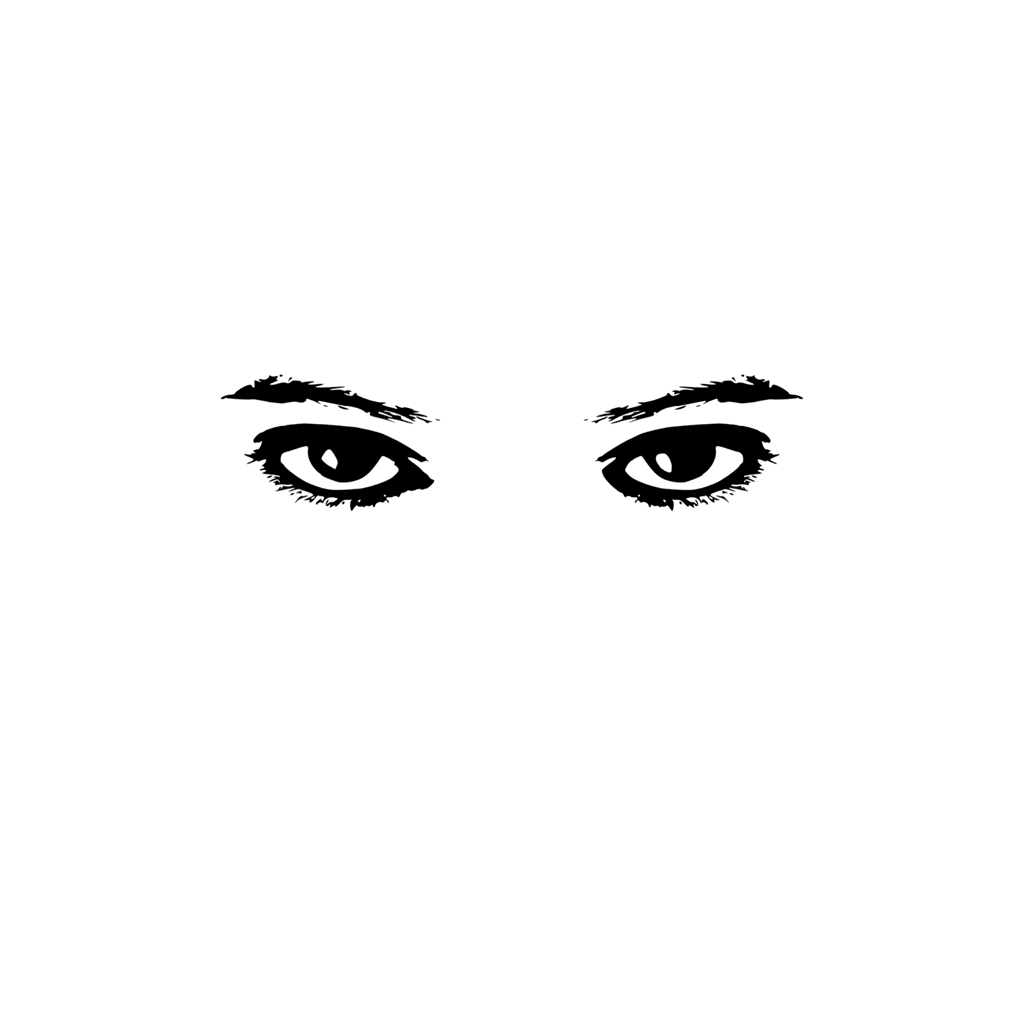
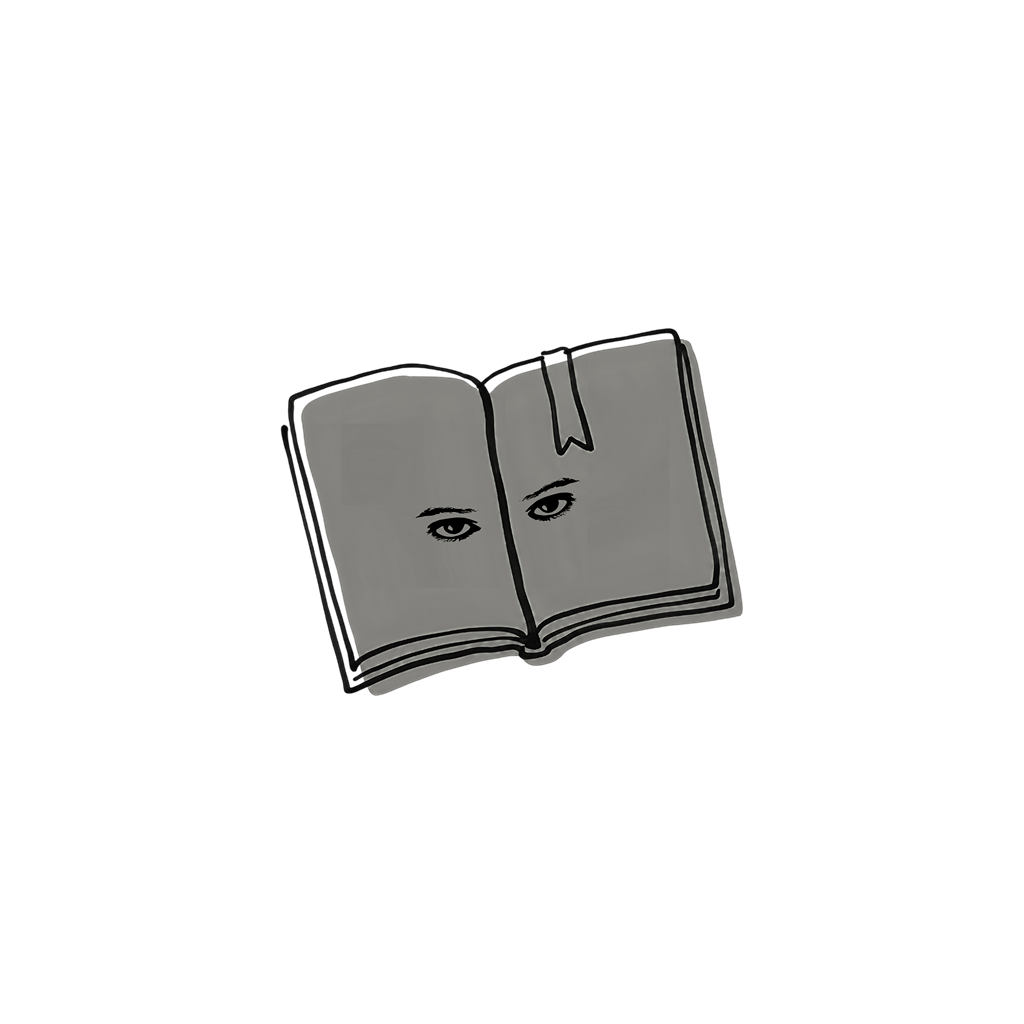
bottom tabs, but glitchy with auth screen

Changed region(s): [[0.2188, 0.3125, 0.7812, 0.6875]]

diff --git a/src/app/_layout.tsx b/src/app/_layout.tsx
@@ -1,5 +1,54 @@
-import { Stack } from "expo-router";
+import { Tabs, usePathname } from 'expo-router';
+import { Home, User } from 'lucide-react-native';
+import { Platform } from 'react-native';
 
 export default function RootLayout() {
-  return <Stack  screenOptions={{ headerShown: false }} />;
+  const pathname = usePathname();
+  const isAuthRoute = pathname === '/login' || pathname === '/register';
+
+  return (
+    <Tabs
+      screenOptions={{
+        headerShown: false,
+        tabBarStyle: isAuthRoute
+          ? { display: 'none' }
+          : {
+              backgroundColor: '#121212',
+              borderTopColor: '#2a2a2a',
+              borderTopWidth: 1,
+              height: Platform.OS === 'android' ? 65 : 85,
+              paddingBottom: Platform.OS === 'android' ? 10 : 25,
+              paddingTop: 8,
+              elevation: 0,
+            },
+        tabBarActiveTintColor: '#f9cf26',
+        tabBarInactiveTintColor: '#555555',
+        tabBarLabelStyle: {
+          fontSize: 11,
+          fontWeight: '600',
+          marginTop: 2,
+        },
+      }}
+    >
+      <Tabs.Screen
+        name="index"
+        options={{
+          title: 'Home',
+          tabBarIcon: ({ focused, color }) => <Home size={22} color={color} />,
+        }}
+      />
+      <Tabs.Screen
+        name="profile"
+        options={{
+          title: 'Profile',
+          tabBarIcon: ({ focused, color }) => <User size={22} color={color} />,
+        }}
+      />
+      {/* Hiding the other routes */}
+      <Tabs.Screen name="subject/[id]" options={{ href: null }} />
+      <Tabs.Screen name="(auth)/login" options={{ href: null }} />
+      <Tabs.Screen name="(auth)/register" options={{ href: null }} />
+      <Tabs.Screen name="(auth)" options={{ href: null }} />
+    </Tabs>
+  );
 }

diff --git a/src/app/profile.tsx b/src/app/profile.tsx
@@ -1,0 +1,23 @@
+import { View, Text, StyleSheet } from 'react-native';
+
+export default function ProfileScreen() {
+  return (
+    <View style={styles.container}>
+      <Text style={styles.text}>Hello</Text>
+    </View>
+  );
+}
+
+const styles = StyleSheet.create({
+  container: {
+    flex: 1,
+    backgroundColor: '#1c1c1c',
+    justifyContent: 'center',
+    alignItems: 'center',
+  },
+  text: {
+    color: '#f9cf26',
+    fontSize: 32,
+    fontWeight: 'bold',
+  },
+});

diff --git a/src/app/subject/[id].tsx b/src/app/subject/[id].tsx
@@ -249,7 +249,7 @@ export default function SubjectScreen() {
             />
           }
           ListEmptyComponent={
-            <Text style={styles.emptyText}>No notes yet. Add something you need for last min revision!</Text>
+            <Text style={styles.emptyText}>No notes yet in {subjects.find((s) => s.id === id)?.name || 'Subject'}. Add something you need for last min revision!</Text>
           }
         />
       )}

diff --git a/src/app/index.tsx b/src/app/index.tsx
@@ -106,7 +106,7 @@ export default function Index() {
     <View style={styles.container}>
       <View style={styles.header}>
         <View>
-          <Text style={styles.welcomeText}>Holaa {user.username} ;)</Text>
+          <Text style={styles.welcomeText}>Wassup {user.username} ;)</Text>
           <Text style={styles.subtitle}>Your Subjects</Text>
         </View>
         <Pressable

diff --git a/src/constants/api.ts b/src/constants/api.ts
@@ -1,3 +1,3 @@
 // ipconfig getifaddr en0
 
-export const API_BASE_URL = 'http://192.168.1.2:3001'; // backend URL!
+export const API_BASE_URL = 'http://192.168.1.4:3001'; // backend URL!
